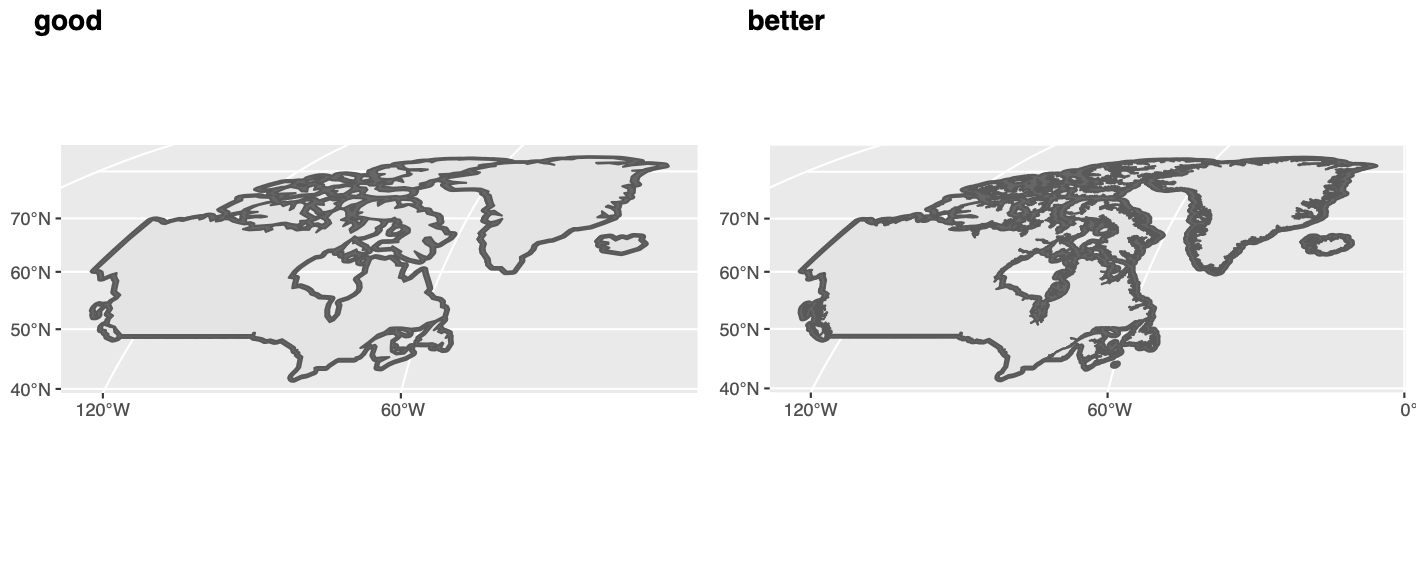
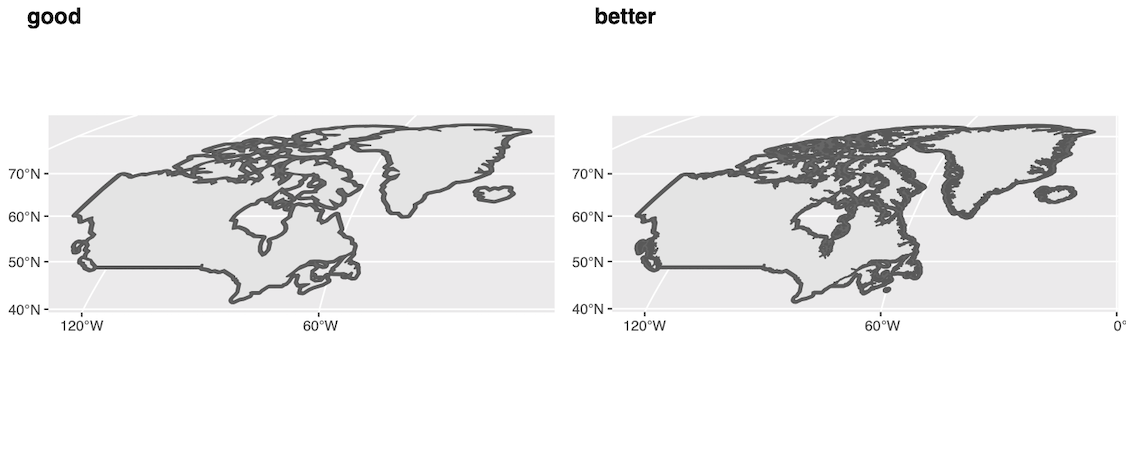
Reduce image size, to reduce overall vignette size.

Changed region(s): [[0.0933, 0.5911, 0.1865, 0.6222], [0.5284, 0.0311, 0.5906, 0.0622], [0.0311, 0.0311, 0.0933, 0.0622]]

diff --git a/README.md b/README.md
@@ -18,9 +18,8 @@ land.
 In this version of `himach`, ‘good’ usually means the fastest, so the
 key indicator is time advantage over flying in a subsonic aircraft.
 
-<figure>
-<img src="vignettes/three_routes.png" style="width:80.0%" alt="Three example routes, including a refuel stop in Anchorage. (Original map: www.naturalearthdata.com)" /><figcaption aria-hidden="true">Three example routes, including a refuel stop in Anchorage. (Original map: www.naturalearthdata.com)</figcaption>
-</figure>
+![Three example routes, including a refuel stop in Anchorage. (Original
+map: www.naturalearthdata.com)](vignettes/three_routes.png)
 
 It is not an operational tool. Please don’t fly these routes, which do
 not allow for wind or other atmospheric conditions, and are based on a
@@ -55,20 +54,20 @@ development (taking Concorde to be the first generation). These will
 normally fly supersonic over the ocean, and subsonic over land. So their
 routes are *not* well-approximated by a great circle.
 
--   Market study: If you want to estimate demand for these aircraft,
-    then a key selling point is the time savings they bring. `himach`
-    calculates this time advantage.
--   Emissions modelling: If you want to model some aspects of emissions,
-    then you need to know the duration and length of flights (as well as
-    the size of the market): `himach` helps with this, at least for the
-    en route phase.
--   Airspace impact: If you want to see which areas of the airspace
-    might be affected, then routes from `himach` will help, though not
-    around airports in this version.
--   Flying a supersonic aircraft: No, not `himach`. You’re going to need
-    something with a much more precise model of aircraft performance,
-    not to mention information on weather, route and airspace
-    availability, runways in use etc.
+- Market study: If you want to estimate demand for these aircraft, then
+  a key selling point is the time savings they bring. `himach`
+  calculates this time advantage.
+- Emissions modelling: If you want to model some aspects of emissions,
+  then you need to know the duration and length of flights (as well as
+  the size of the market): `himach` helps with this, at least for the en
+  route phase.
+- Airspace impact: If you want to see which areas of the airspace might
+  be affected, then routes from `himach` will help, though not around
+  airports in this version.
+- Flying a supersonic aircraft: No, not `himach`. You’re going to need
+  something with a much more precise model of aircraft performance, not
+  to mention information on weather, route and airspace availability,
+  runways in use etc.
 
 A route from `himach` looks something like this, shown in green on the
 map. The great-circle route is shown in thin light blue, for comparison.
@@ -82,7 +81,10 @@ If we plot a speed view of the same thing, we see that the route
 maximises the distance over which supersonic speeds may be maintained.
 
 <figure>
-<img src="vignettes/EDDF_KBOS_speed.png" style="width:70.0%" alt="Example route between Boston &amp; Frankfurt, this time showing speed" /><figcaption aria-hidden="true">Example route between Boston &amp; Frankfurt, this time showing speed</figcaption>
+<img src="vignettes/EDDF_KBOS_speed.png" style="width:70.0%"
+alt="Example route between Boston &amp; Frankfurt, this time showing speed" />
+<figcaption aria-hidden="true">Example route between Boston &amp;
+Frankfurt, this time showing speed</figcaption>
 </figure>
 
 Compared to some of the larger subsonic passenger jets, the second
@@ -92,31 +94,30 @@ modelling process. This map shows some examples (the results depend on
 which airports you make available as possible re-fuelling points).
 
 <figure>
-<img src="vignettes/refuel_examples_pacific.png" style="width:80.0%" alt="Example routes, with refuelling points" /><figcaption aria-hidden="true">Example routes, with refuelling points</figcaption>
+<img src="vignettes/refuel_examples_pacific.png" style="width:80.0%"
+alt="Example routes, with refuelling points" />
+<figcaption aria-hidden="true">Example routes, with refuelling
+points</figcaption>
 </figure>
 
 Other useful features of `himach` include:
 
--   one-stop calculation of hundreds of routes, with functions then to
-    plot and summarise;
--   summary indicators such as average speed and circuity, to help
-    filter out routes where the aircraft is not likely to have an
-    advantage;
--   time advantage is calculated by default against a Mach0.84 subsonic
-    aircraft, but subsonic aircraft can be routed to provide alternative
-    comparisons;
--   option to close off airspace where overflights are not allowed or
-    not advised;
--   map plotting using four quick-view coordinate reference systems
-    (Atlantic, Pacific and 2 polar views), and ability to use other
-    ‘CRS’ if required;
--   plotting of route-range envelopes, to help understand routing
-    options (why didn’t it stay over the ocean here? why didn’t it
-    refuel there?).
+- one-stop calculation of hundreds of routes, with functions then to
+  plot and summarise;
+- summary indicators such as average speed and circuity, to help filter
+  out routes where the aircraft is not likely to have an advantage;
+- time advantage is calculated by default against a Mach0.84 subsonic
+  aircraft, but subsonic aircraft can be routed to provide alternative
+  comparisons;
+- option to close off airspace where overflights are not allowed or not
+  advised;
+- map plotting using four quick-view coordinate reference systems
+  (Atlantic, Pacific and 2 polar views), and ability to use other ‘CRS’
+  if required;
+- plotting of route-range envelopes, to help understand routing options
+  (why didn’t it stay over the ocean here? why didn’t it refuel there?).
 
-<figure>
-<img src="vignettes/polar_examples.png" style="width:50.0%" alt="Example polar view" /><figcaption aria-hidden="true">Example polar view</figcaption>
-</figure>
+![Example polar view](vignettes/polar_examples.png)
 
 ## Getting Started
 
